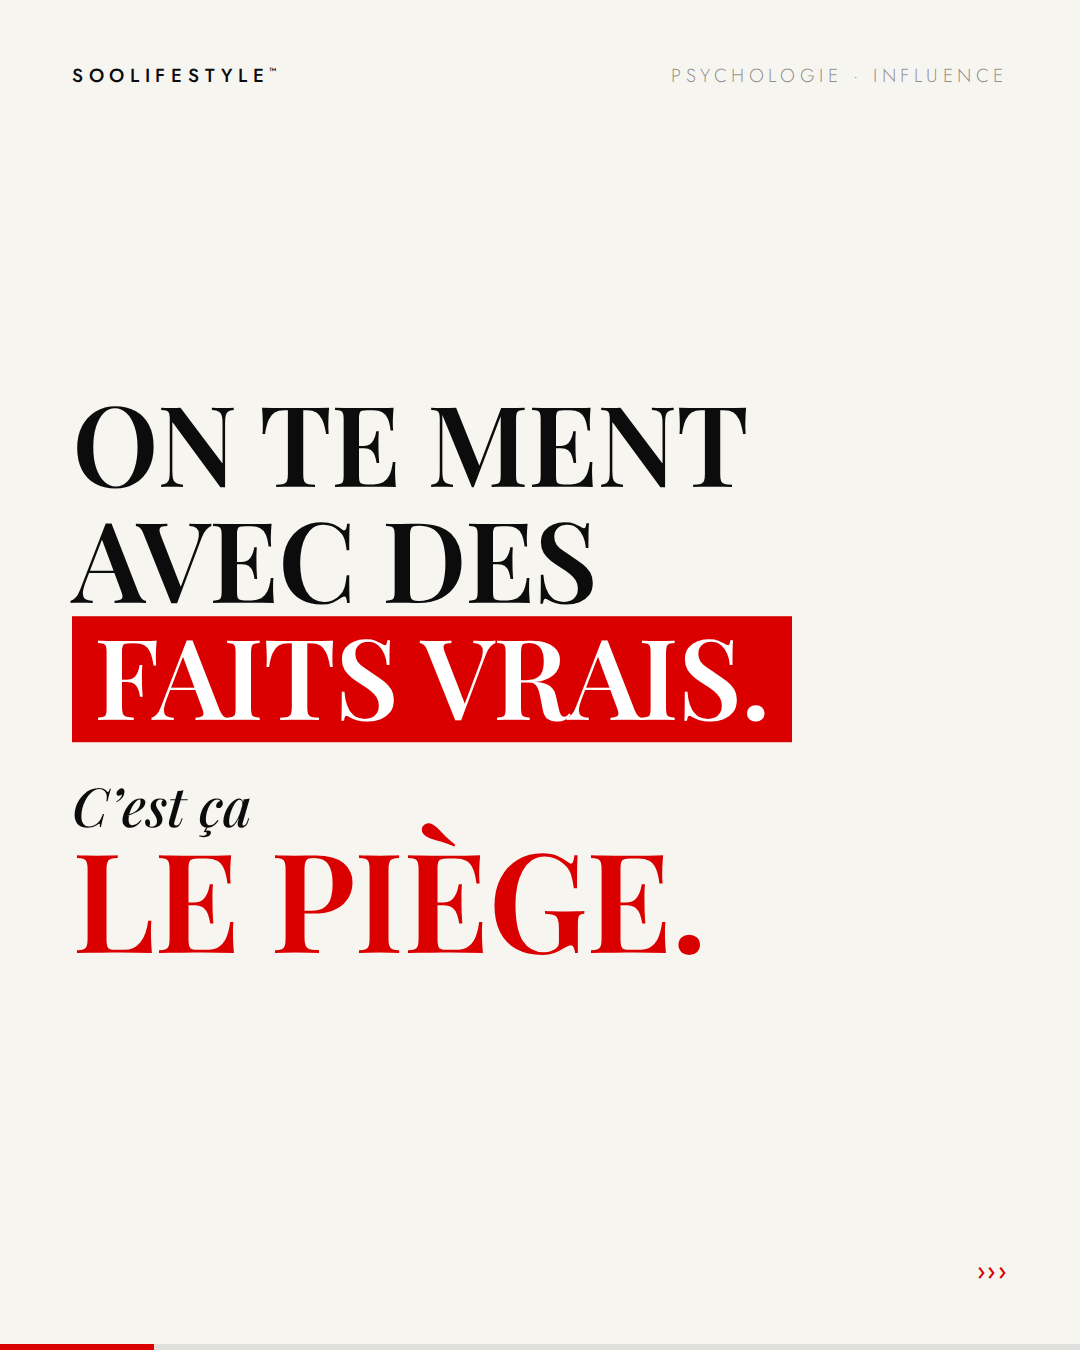
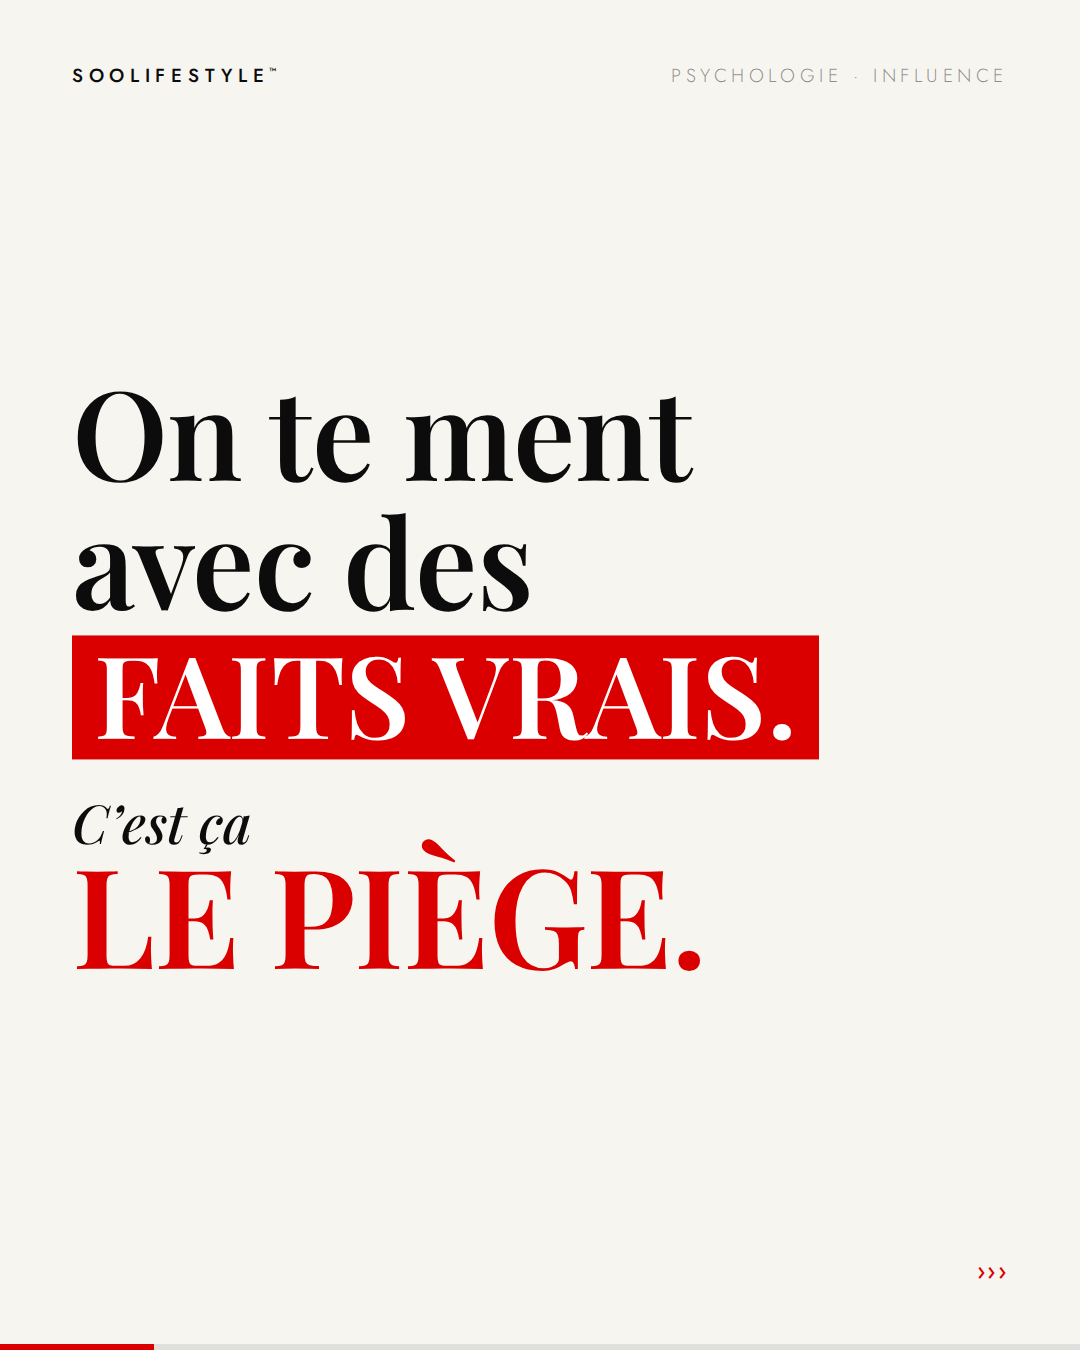
La regle de casse s'applique partout, couverture comprise
Les neuf couvertures du feed et celle du carrousel passent a "case": true.
Corps rebalances (92 a 116 selon le gabarit et la longueur de la ligne
surlignee) : les minuscules ont une hauteur d'x basse, il leur faut du
corps pour tenir leur rang.

Le systeme n'a plus qu'une regle typographique, de la couverture au CTA :
minuscules pour poser, capitales pour piquer. Le surligneur devient le
seul bloc de capitales de la slide — il sort desormais tout seul, sans
avoir besoin du rouge pour ca.

La regle remonte au niveau des invariants dans SYSTEME.md.

Claude-Session: https://claude.ai/code/session_01NxfN7rJ7DAKtxmihPtfgqw

Changed region(s): [[0.0611, 0.28, 0.7639, 0.7156], [0.2444, 0.5911, 0.6722, 0.7156]]

diff --git a/instagram/carrousel-le-miroir/covers.html b/instagram/carrousel-le-miroir/covers.html
@@ -60,16 +60,51 @@
   .dark .body{ color:rgba(247,245,240,.80); }
   .body + .body{ margin-top:28px; }
 
-  .cta{ display:inline-flex; align-items:center; gap:22px; background:var(--red);
-        color:#fff; padding:26px 44px; margin-top:52px;
-        font-family:'Sans',sans-serif; font-weight:500; font-size:24px;
-        letter-spacing:.24em; text-transform:uppercase; }
-  .cta span{ font-size:26px; letter-spacing:0; }
+  /* ── la relance : on swipe vers un nom, pas vers du vide ── */
+  .m-relance{ bottom:58px; right:var(--pad); display:flex; align-items:baseline; gap:16px;
+              font-size:19px; letter-spacing:.26em; }
+  .m-relance i{ font-style:normal; color:rgba(12,12,12,.40); font-weight:300; }
+  .dark .m-relance i{ color:rgba(247,245,240,.40); }
+  .m-relance b{ font-weight:500; color:var(--red); }
+  .m-relance s{ text-decoration:none; color:var(--red); font-size:24px; letter-spacing:.1em; }
+
+  /* ── la claque : une ligne, énorme, rien autour ── */
+  .setup{ font-family:'Sans',sans-serif; font-weight:300; font-size:36px; line-height:1.4;
+          color:rgba(12,12,12,.60); margin-bottom:40px; }
+  .dark .setup{ color:rgba(247,245,240,.55); }
+  .huge{ font-family:'Display',Georgia,serif; font-weight:600; text-transform:uppercase;
+         line-height:1.2; letter-spacing:-.01em; }
+
+  /* ── la bascule : la phrase qui retourne, en capitales rouges ── */
+  .payoff{ font-family:'Display',Georgia,serif; font-weight:600; text-transform:uppercase;
+           font-size:56px; line-height:1.14; letter-spacing:-.008em;
+           color:var(--red); margin-top:44px; }
+  /* la bascule pique, donc capitales — comme la ligne surlignée */
+
+  /* ── le contraste de casse ──
+        Tout en capitales, c'est un seul poids : rien ne ressort.
+        La ligne qui POSE passe en minuscules — grande, parce que la
+        hauteur d'x est basse. La ligne qui PIQUE passe en capitales :
+        chaque lettre occupe toute la hauteur, le bloc pèse deux fois
+        plus à taille égale. On la descend donc à 0,92.
+        Même mot, même police, deux textures. ── */
+  .case{ text-transform:none; }
+  .case .chip, .case .haut{ text-transform:uppercase; font-size:.92em;
+                            display:inline-block; line-height:1;
+                            letter-spacing:.002em; }
+  .case .chip{ padding:10px 24px 16px; }
+
+  /* ── l'horizon : le bloc ne flotte plus, il pose ── */
+  .wrap.bas{ top:auto; bottom:196px; transform:none; }
+
+  /* ── le compte : l'arobase surligné, pas un bouton ── */
+  .at{ display:inline-block; background:var(--red); color:#fff;
+       padding:2px 14px 6px; margin:0 4px; }
 </style></head><body>
 <div class="sl" id="miroir">
   
     <div class="wrap mid">
-      <div class="title" style="font-size:104px">Tu as arrêté<br><span class="chip" style="">ton scroll</span><br>sur ce post.</div>
+      <div class="title case" style="font-size:108px">Tu as arrêté<br><span class="chip" style="">ton scroll</span><br>sur ce post.</div>
       <div class="ital" style="margin-top:46px">Voilà exactement</div>
       <div class="why" style="font-size:228px; margin:-6px -400px 0; text-align:center">Pourquoi.</div>
     </div>
@@ -82,7 +117,7 @@
 <div class="sl" id="disparu">
   
     <div class="wrap">
-      <div class="title" style="font-size:104px">Il a dit oui.<br>Puis il a<br><span class="chip" style="margin-left:-150px; padding-left:150px">disparu.</span></div>
+      <div class="title case" style="font-size:116px">Il a dit oui.<br>Puis il a<br><span class="chip" style="margin-left:-150px; padding-left:150px">disparu.</span></div>
       <div class="hr"></div>
       <div class="ital">Ce n’est pas</div>
       <div class="why">Un hasard.</div>
@@ -96,7 +131,7 @@
 <div class="sl" id="relecture">
   
     <div class="wrap">
-      <div class="title" style="font-size:108px; line-height:1.04">Tu relis son<br>message depuis<br><span class="chip" style="padding:0 22px 10px">dix minutes.</span></div>
+      <div class="title case" style="font-size:120px; line-height:1.04">Tu relis son<br>message depuis<br><span class="chip" style="padding:0 22px 10px">dix minutes.</span></div>
       <div class="ital" style="margin-top:34px">Ton cerveau</div>
       <div class="why" style="font-size:138px; margin-top:-10px">Travaille.</div>
     </div>
@@ -109,7 +144,7 @@
 <div class="sl" id="ecoute">
   
     <div class="wrap mid">
-      <div class="title" style="font-size:100px"><span class="chip" style="transform:rotate(-2.6deg)">Elle parle peu.</span><br>Tout le monde<br>l’écoute.</div>
+      <div class="title case" style="font-size:104px"><span class="chip" style="transform:rotate(-2.6deg)">Elle parle peu.</span><br>Tout le monde<br>l’écoute.</div>
       <div class="hr"></div>
       <div class="ital">Il y a</div>
       <div class="why">Une raison.</div>
@@ -123,7 +158,7 @@
 <div class="sl" id="manoeuvre">
   
     <div class="wrap low">
-      <div class="title" style="font-size:104px">Tu as dit oui<br>en pensant<br><span class="chip" style="">non.</span></div>
+      <div class="title case" style="font-size:116px">Tu as dit oui<br>en pensant<br><span class="chip" style="">non.</span></div>
       <div class="ital" style="margin-top:38px">On t’a</div>
       <div class="why">Manœuvré.</div>
     </div>
@@ -136,7 +171,7 @@
 <div class="sl" id="silence">
   
     <div class="wrap mid" style="padding:0">
-      <div class="title" style="font-size:104px; padding:0 var(--pad)">Le silence</div><div class="title" style="font-size:104px; padding:0 var(--pad)">est la phrase</div><div class="title" style="font-size:104px; background:var(--red); color:#fff; padding:10px 0 20px; margin:14px 0">la plus lue.</div>
+      <div class="title case" style="font-size:112px; padding:0 var(--pad)">Le silence</div><div class="title case" style="font-size:112px; padding:0 var(--pad)">est la phrase</div><div class="title case" style="font-size:112px; background:var(--red); color:#fff; padding:10px 0 20px; margin:14px 0"><span class="chip" style="background:none; padding:0">la plus lue.</span></div>
       <div class="hr"></div>
       <div class="ital">Et personne</div>
       <div class="why">Ne l’entend.</div>
@@ -150,7 +185,7 @@
 <div class="sl" id="ignore">
   
     <div class="wrap mid">
-      <div class="title" style="font-size:92px">Il t’ignore.<br>Tu le trouves<br><span class="chip" style="">plus intéressant.</span></div>
+      <div class="title case" style="font-size:92px">Il t’ignore.<br>Tu le trouves<br><span class="chip" style="">plus intéressant.</span></div>
       <div class="ital" style="margin-top:46px">Ça porte</div>
       <div class="why" style="font-size:268px; margin:-6px -400px 0; text-align:center">Un nom.</div>
     </div>
@@ -163,7 +198,7 @@
 <div class="sl" id="attirance">
   
     <div class="wrap">
-      <div class="title" style="font-size:92px">Tu ne choisis pas<br>ce qui<br><span class="chip" style="margin-left:-150px; padding-left:150px">t’attire.</span></div>
+      <div class="title case" style="font-size:104px">Tu ne choisis pas<br>ce qui<br><span class="chip" style="margin-left:-150px; padding-left:150px">t’attire.</span></div>
       <div class="hr"></div>
       <div class="ital">Quelqu’un</div>
       <div class="why">L’a choisi.</div>
@@ -177,7 +212,7 @@
 <div class="sl" id="faits">
   
     <div class="wrap">
-      <div class="title" style="font-size:112px; line-height:1.04">On te ment<br>avec des<br><span class="chip" style="padding:0 22px 10px">faits vrais.</span></div>
+      <div class="title case" style="font-size:124px; line-height:1.04">On te ment<br>avec des<br><span class="chip" style="padding:0 22px 10px">faits vrais.</span></div>
       <div class="ital" style="margin-top:34px">C’est ça</div>
       <div class="why" style="font-size:138px; margin-top:-10px">Le piège.</div>
     </div>

diff --git a/instagram/carrousel-le-miroir/SYSTEME.md b/instagram/carrousel-le-miroir/SYSTEME.md
@@ -36,6 +36,12 @@ un mot en capitales rouges, grand
 **La règle du rouge** : une seule masse rouge dans le titre, une seule dans la chute.
 Jamais trois. Le rouge marque ce qui pique, pas ce qui est important.
 
+**La règle de casse**, de la couverture au CTA :
+**la ligne qui pose est en minuscules, la ligne qui pique est en capitales.**
+Les capitales occupent toute la hauteur de capitale sur chaque lettre — à taille
+égale le bloc pèse presque deux fois plus. On les descend donc à **0,92 fois**
+la taille de base. Détail et contraintes de largeur plus bas.
+
 ---
 
 ## Ce qui tourne
@@ -60,8 +66,12 @@ Dans `posts.json`. Une entrée par carrousel.
 Elle porte le mot qui pique — le plus souvent la dernière, parfois la première
 quand c'est elle qui accroche.
 
-`size` : 104 pour trois lignes courtes, 92 à 100 si une ligne dépasse 15 signes.
-Au-delà de 17 signes, coupe autrement.
+`case` : `true` pour appliquer la règle de casse. Toujours, désormais.
+
+`size` : les minuscules ont une hauteur d'x basse, il leur faut du corps.
+104 à 116 sur une couverture, 88 à 112 à l'intérieur. La contrainte
+qui décide, c'est la largeur de la ligne surlignée — voir le tableau
+du contraste de casse.
 
 ### Les gabarits
 
